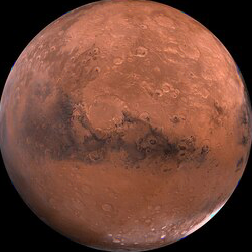
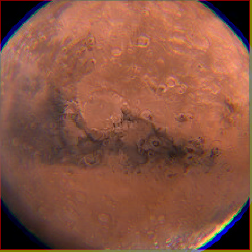
Se corrige la opcion 7 del index y de telescopio

diff --git a/modules/telescopio.py b/modules/telescopio.py
@@ -5,7 +5,10 @@ from modules.tracer import *
 
 def main_system(m):
     df = pd.read_json("data/lenses.json") 
-    obj = Image.open("img/mars.jpg", "r")
+    if m == '0':
+        obj = Image.open("img/mars.jpg", "r")
+    else:
+        obj = Image.open("img/nuevaImagen.png", "r")
 
     n1 = 1
     
